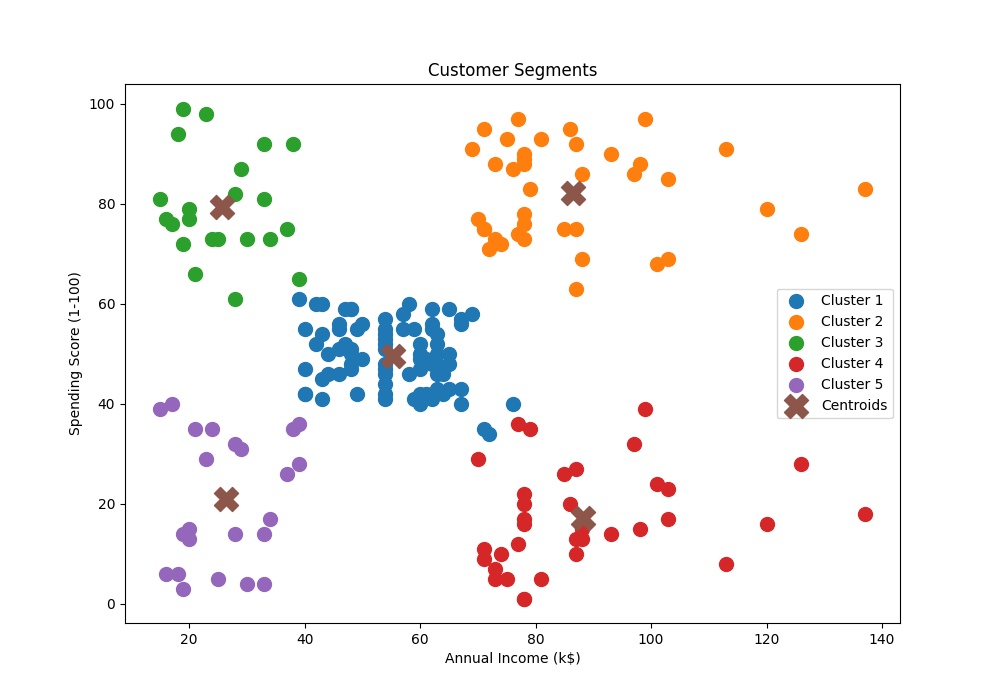
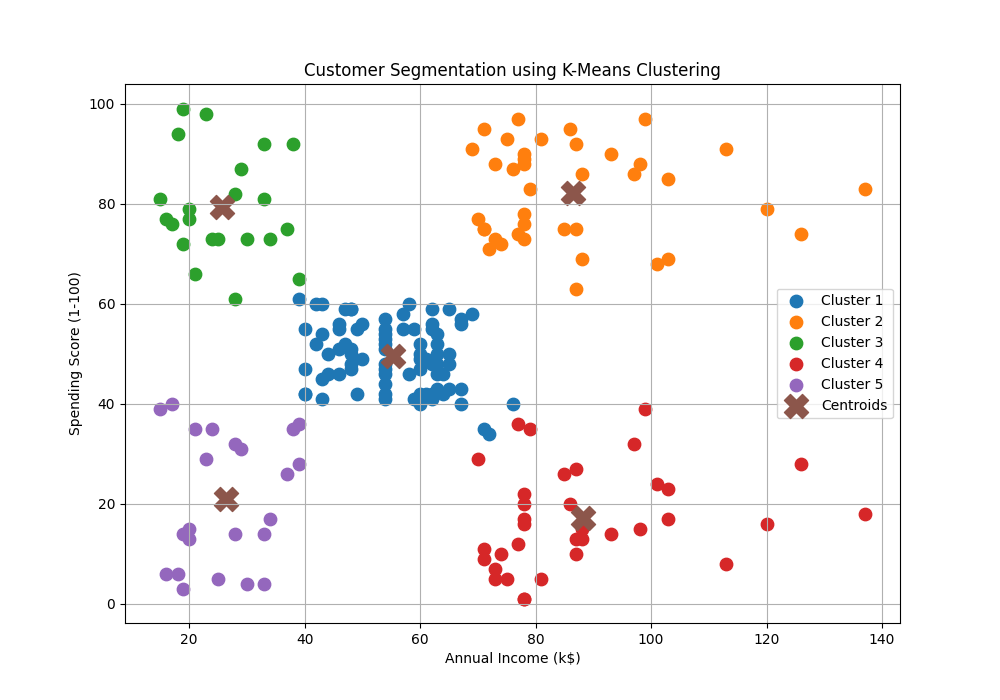
Added silhouette score and cluster evaluation

diff --git a/customer_segmentation.py b/customer_segmentation.py
@@ -1,15 +1,29 @@
 import pandas as pd
-import numpy as np
 import matplotlib.pyplot as plt
 from sklearn.cluster import KMeans
+from sklearn.metrics import silhouette_score
 
-# Load dataset
+# ==========================================
+# Load Dataset
+# ==========================================
+
 df = pd.read_csv("data/Mall_Customers.csv")
 
-# Select features
+print("Dataset Preview:")
+print(df.head())
+
+print("\nDataset Shape:", df.shape)
+
+# ==========================================
+# Feature Selection
+# ==========================================
+
 X = df[['Annual Income (k$)', 'Spending Score (1-100)']]
 
+# ==========================================
 # Elbow Method
+# ==========================================
+
 wcss = []
 
 for i in range(1, 11):
@@ -19,18 +33,26 @@ for i in range(1, 11):
         random_state=42,
         n_init=10
     )
+
     kmeans.fit(X)
     wcss.append(kmeans.inertia_)
 
-plt.figure(figsize=(8,5))
-plt.plot(range(1,11), wcss, marker='o')
-plt.title("Elbow Method")
-plt.xlabel("Number of Clusters")
-plt.ylabel("WCSS")
+# Plot Elbow Method
+
+plt.figure(figsize=(8, 5))
+plt.plot(range(1, 11), wcss, marker='o')
+plt.title('Elbow Method')
+plt.xlabel('Number of Clusters')
+plt.ylabel('WCSS')
+plt.grid(True)
+
 plt.savefig("images/elbow_method.png")
 plt.show()
 
-# KMeans Model
+# ==========================================
+# K-Means Clustering
+# ==========================================
+
 kmeans = KMeans(
     n_clusters=5,
     init='k-means++',
@@ -40,55 +62,83 @@ kmeans = KMeans(
 
 y_kmeans = kmeans.fit_predict(X)
 
-# Visualization
-plt.figure(figsize=(10,7))
+# ==========================================
+# Silhouette Score
+# ==========================================
+
+sil_score = silhouette_score(X, y_kmeans)
+
+print("\n" + "=" * 50)
+print(f"Silhouette Score: {sil_score:.3f}")
+print("=" * 50)
+
+# ==========================================
+# Cluster Visualization
+# ==========================================
+
+plt.figure(figsize=(10, 7))
 
 plt.scatter(
     X.iloc[y_kmeans == 0, 0],
     X.iloc[y_kmeans == 0, 1],
-    s=100,
+    s=80,
     label='Cluster 1'
 )
 
 plt.scatter(
     X.iloc[y_kmeans == 1, 0],
     X.iloc[y_kmeans == 1, 1],
-    s=100,
+    s=80,
     label='Cluster 2'
 )
 
 plt.scatter(
     X.iloc[y_kmeans == 2, 0],
     X.iloc[y_kmeans == 2, 1],
-    s=100,
+    s=80,
     label='Cluster 3'
 )
 
 plt.scatter(
     X.iloc[y_kmeans == 3, 0],
     X.iloc[y_kmeans == 3, 1],
-    s=100,
+    s=80,
     label='Cluster 4'
 )
 
 plt.scatter(
     X.iloc[y_kmeans == 4, 0],
     X.iloc[y_kmeans == 4, 1],
-    s=100,
+    s=80,
     label='Cluster 5'
 )
 
+# Centroids
+
 plt.scatter(
-    kmeans.cluster_centers_[:,0],
-    kmeans.cluster_centers_[:,1],
+    kmeans.cluster_centers_[:, 0],
+    kmeans.cluster_centers_[:, 1],
     s=300,
     marker='X',
     label='Centroids'
 )
 
-plt.title('Customer Segments')
+plt.title('Customer Segmentation using K-Means Clustering')
 plt.xlabel('Annual Income (k$)')
 plt.ylabel('Spending Score (1-100)')
 plt.legend()
+plt.grid(True)
+
 plt.savefig("images/clusters.png")
 plt.show()
+
+# ==========================================
+# Cluster Summary
+# ==========================================
+
+df['Cluster'] = y_kmeans
+
+print("\nCustomers per Cluster:")
+print(df['Cluster'].value_counts().sort_index())
+
+print("\nProject Completed Successfully!")